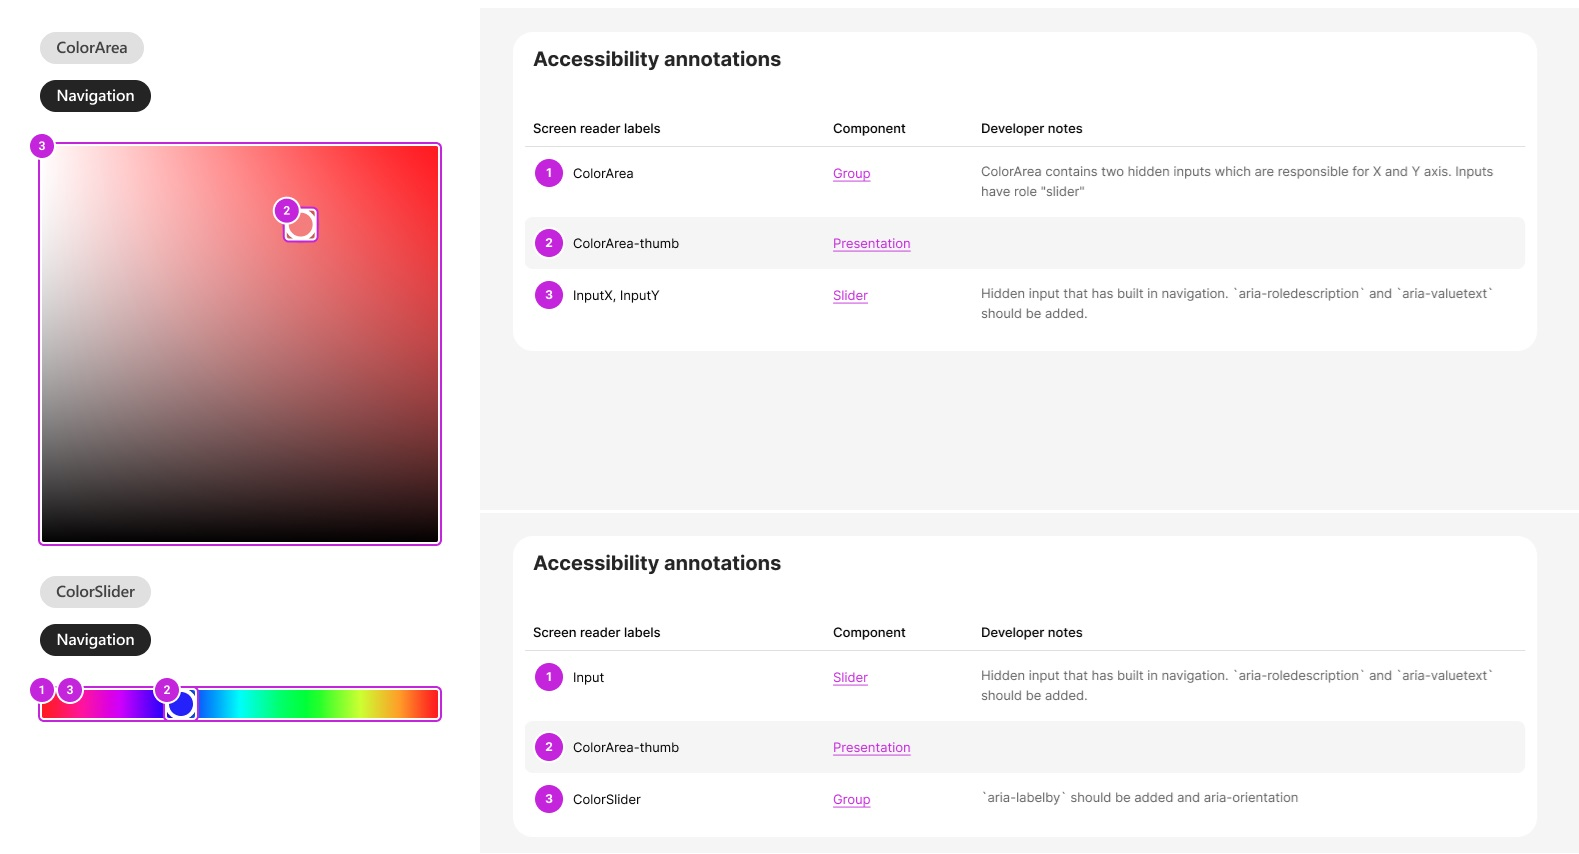
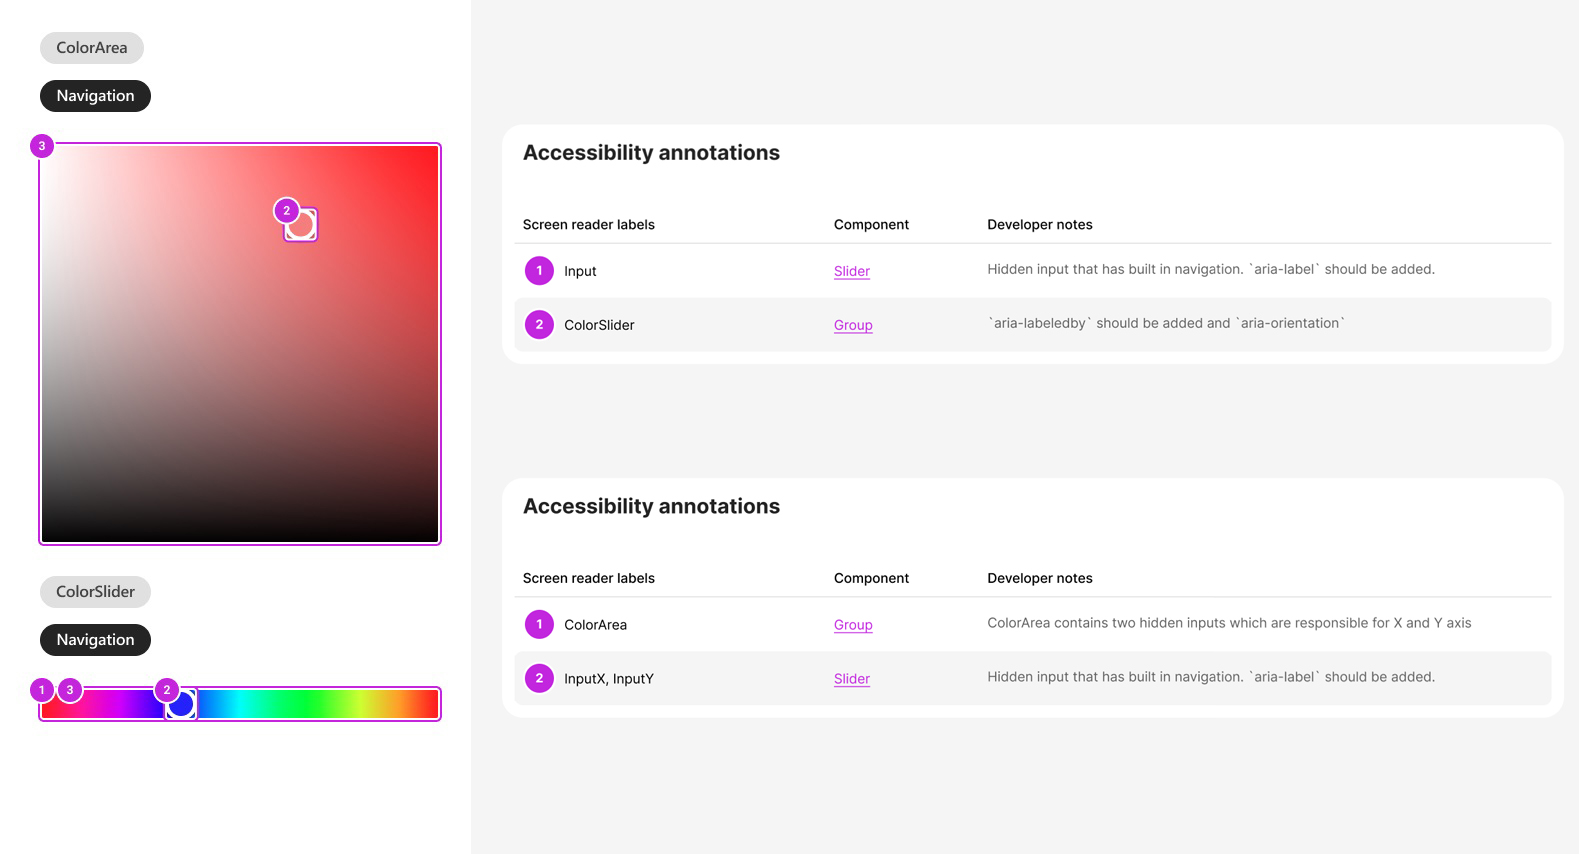
Fixed PR after review

diff --git a/packages/react-components/react-color-picker-preview/library/docs/Spec.md b/packages/react-components/react-color-picker-preview/library/docs/Spec.md
@@ -65,7 +65,7 @@ const ColorPickerBasicExample: React.FunctionComponent = () => {
 | ColorSlider allows user to pick a color using individual channel         | ColorSlider    | ColorSlider | ⚠        |
 | AlphaSlider allows user to pick a color using alpha channel              |                | AlphaSlider | ❌        |
 
-## Sample Code
+## Sample Code of proposed API below
 
 ```jsx
 import {
@@ -139,6 +139,10 @@ For custom sizes users might want to customize it via CSS.
 | step       | `number`            | 1         | Step for arrow navigation              |
 | customStep | `number`            | 3         | Fast navigation                        |
 
+Color has `string` type because all the color manipulations will be done inside of the ColorPicker component. It'll transform any color to HSL or RGB format.
+
+`onChange` event returns data which contains a new color and values of color channels.
+
 Input fields with color values will be in `renderUtils`. It will contain default ColorPicker which has all colors represented and a preview swatch. This functionality is similar to V8.
 
 ```tsx
@@ -170,7 +174,7 @@ export const Default = () => {
 
 Validation of color fields will be in `utils`. Validation should not allow entering incorrect values to the input fields.
 
-For color manipulation and conversion `tinycolor` library will be used.
+For color manipulation and conversion [tinycolor](https://www.npmjs.com/package/@ctrl/tinycolor) library will be used.
 
 | Slots | Values | Default | Description                 |
 | ----- | ------ | ------- | --------------------------- |
@@ -265,10 +269,10 @@ For color manipulation and conversion `tinycolor` library will be used.
 #### DOM
 
 ```HTML
-<div role="group" class="fui-ColorArea" aria-label="Saturation and brightness" aria-valuetext="Saturation 54 brightness 35">
-  <input id="sliderX" type="range" class="fui-ColorArea__inputX" value="96" role="slider">
-  <input id="sliderY" type="range" class="fui-ColorArea__inputY" value="0" role="slider">
-  <div class="fui-ColorArea__thumb" role="presentation"></div>
+<div role="group" class="fui-ColorArea" aria-label="Gradient area">
+  <input id="sliderX" type="range" class="fui-ColorArea__inputX" value="96" aria-label="saturation">
+  <input id="sliderY" type="range" class="fui-ColorArea__inputY" value="0" aria-label="brightness">
+  <div class="fui-ColorArea__thumb"></div>
 </div>
 ```
 
@@ -286,7 +290,7 @@ For color manipulation and conversion `tinycolor` library will be used.
 
 ```HTML
 <div class="fui-ColorSlider" role="group">
-  <input id="slider" type="range" value="100" aria-valuetext="100, red" max="360">
+  <input id="slider" type="range" value="100" aria-label="red" max="360">
   <div class="fui-ColorSlider__rail" ></div>
   <div class="fui-ColorSlider__thumb"></div>
 </div>
@@ -300,9 +304,9 @@ For color manipulation and conversion `tinycolor` library will be used.
 
 ```HTML
 <div class="fui-AlphaSlider" role="group">
-  <input id="slider" type="range" role="slider" value="100" aria-valuetext="100, red">
+  <input id="slider" type="range"  value="100" aria-label="red">
   <div class="fui-AlphaSlider__rail" ></div>
-  <div class="fui-AlphaSlider__thumb" role="presentation"></div>
+  <div class="fui-AlphaSlider__thumb"></div>
 </div>
 ```
 
@@ -426,9 +430,8 @@ In a `horizontal` orientation top/right arrows move to the right, bottom/left ar
 
 On navigation and color select the screen reader should read the following:
 
-1. `aria-labelledby` of the root component, e.g. "ColorPicker"
-2. `aria-roledescription` of the input slider, e.g. "2D slider"
-3. `aria-valuetext` with the color description.
+1. `aria-labelledby` of the root component, e.g. "ColorPicker, 2D slider"
+2. `aria-label` of the input element with the color description.
 
 **Example**: "ColorPicker, 2D slider, Red 10, Green 132, Blue 228, Azure Radiance"
 
@@ -439,18 +442,12 @@ Use `tab` key to navigate between ColorArea and Color sliders. Use arrows keys t
 **Root element of ColorSlider and ColorArea:**
 
 - role `group`
-- `aria-labelby`
+- `aria-labelledby`
 
 For vertical Slider `aria-orientation="vertical"`
 
-**ColorThumb:**
-
-- role `presentation`
-
 **ColorArea X/Y inputs and Color/AlphaSlider:**
 
-- role `slider`
-- `aria-roledescription`
-- `aria-valuetext`
+- `aria-label`
 
 ![ColorPicker Accessibility](./assets/color-picker-a11y.jpg)
